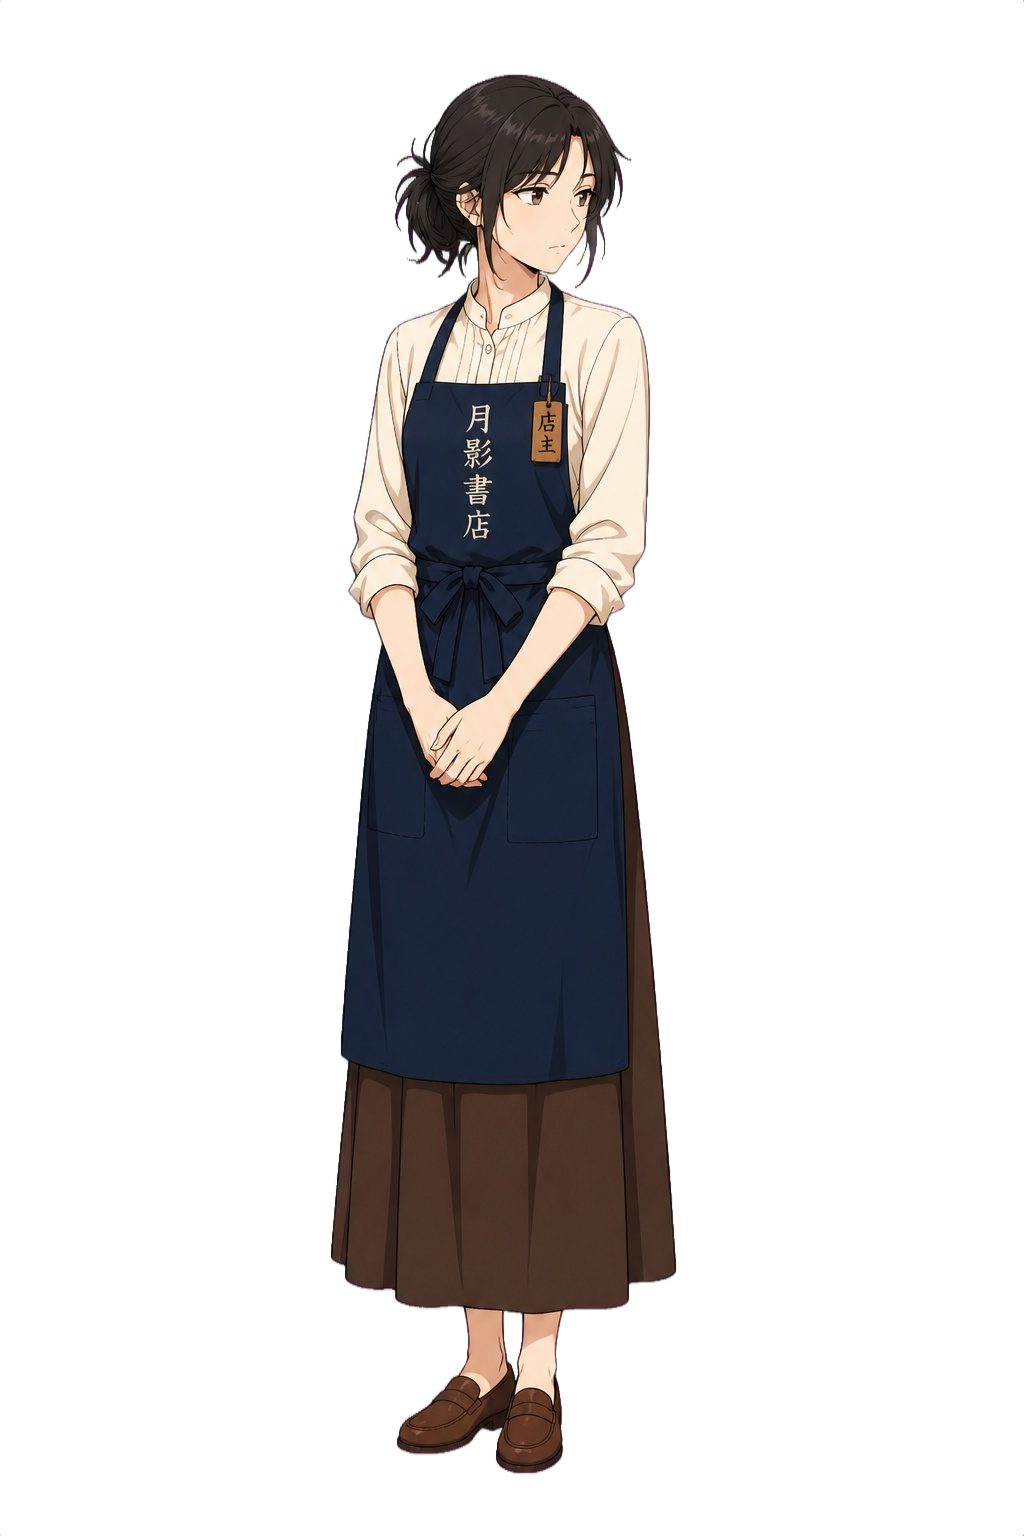
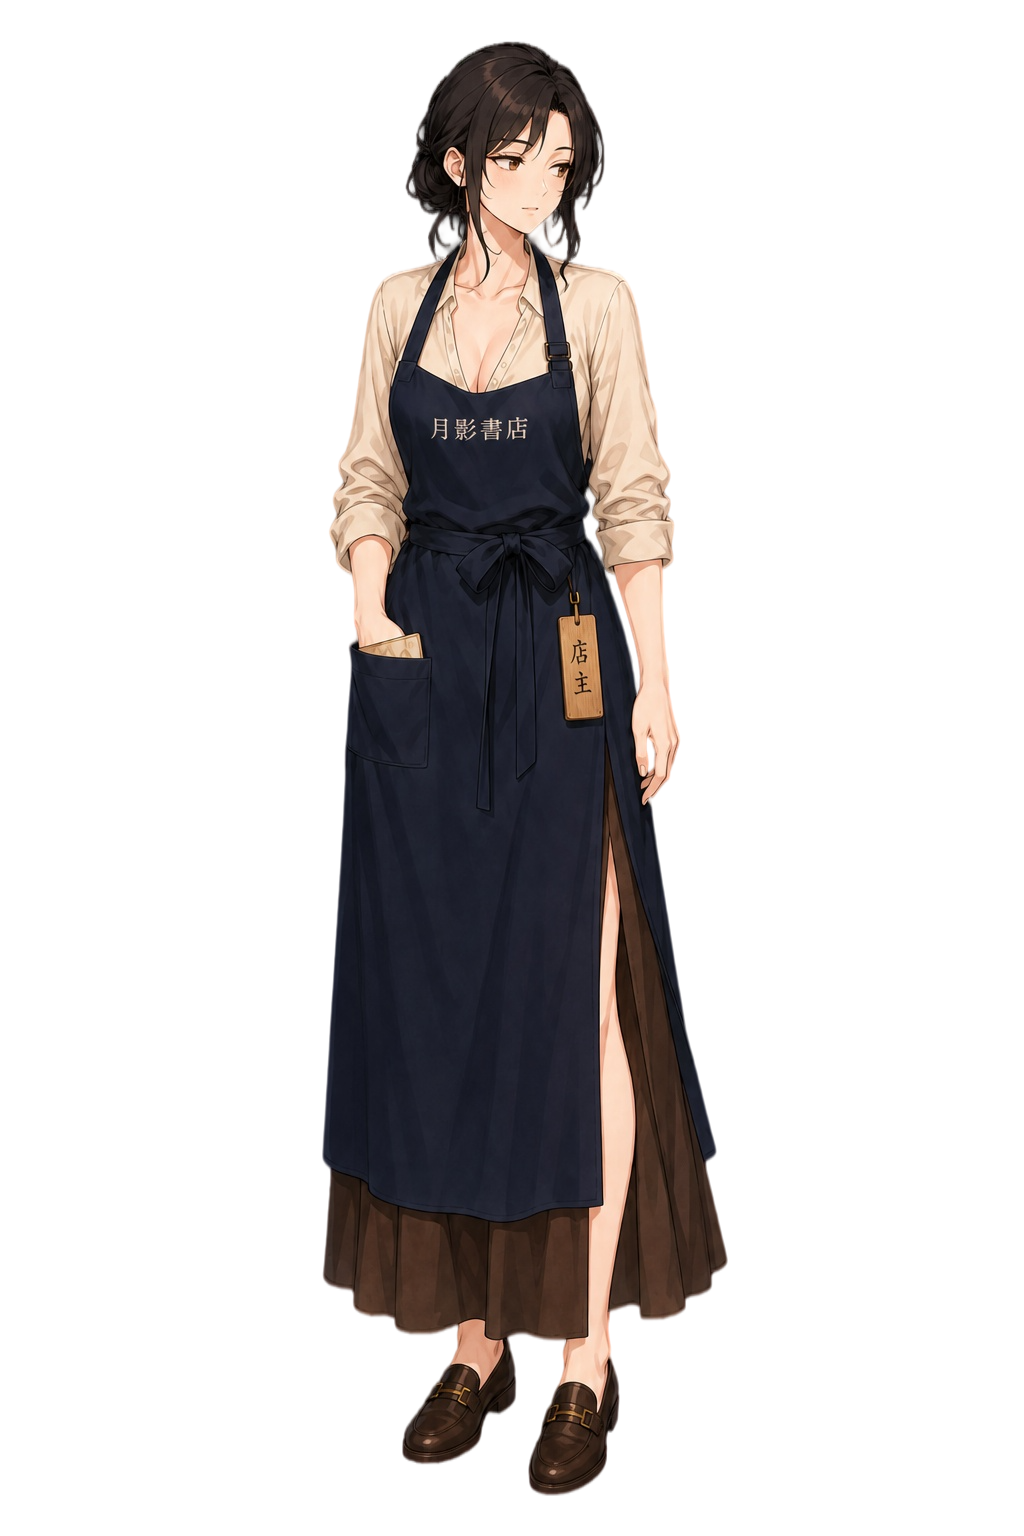
fix(assets): 对齐 avert/smile/soft/tense 画风
- 以 default 为锚点重出四张表情差分
- 黑底原稿收入 batch-04-stylefix

Changed region(s): [[0.3125, 0.0312, 0.7188, 1.0]]

diff --git a/src/data/assets.ts b/src/data/assets.ts
@@ -6,7 +6,7 @@
  *
  * ASSET_VER：换图后递增，强制浏览器绕过旧缓存
  */
-export const ASSET_VER = '20260802q'
+export const ASSET_VER = '20260802r'
 
 function asset(path: string): string {
   if (!path) return path

diff --git a/.cursor/skills/gal-character-sprite/SKILL.md b/.cursor/skills/gal-character-sprite/SKILL.md
@@ -81,8 +81,9 @@ description: >-
 | `public/images/char/green/batch-01-expressions/` | 表情 + book/crossed |
 | `public/images/char/green/batch-02-actions/` | 动作姿态 |
 | `public/images/char/green/batch-03-outfits/` | 换装 |
+| `public/images/char/green/batch-04-stylefix/` | 画风对齐重出 |
 
-详见 `public/images/char/green/README.md`。新绿幕请开 `batch-04-…`，不要堆回扁平 `green/`。
+详见 `public/images/char/green/README.md`。新绿幕请开下一 `batch-XX-…`，不要堆回扁平 `green/`。
 
 ## Prompt recipe（生成时遵守）
 

diff --git a/public/images/char/green/README.md b/public/images/char/green/README.md
@@ -8,6 +8,7 @@
 | `batch-01-expressions/` | 表情 + 抱书/抱臂 | 最早一批店服表情差分 |
 | `batch-02-actions/` | 托腮、端杯、写备忘等动作 | 设计稿动作行 |
 | `batch-03-outfits/` | 围裙性感版 / 开衫 / 私服 / 卸围裙 | 设计稿 B 换装 |
+| `batch-04-stylefix/` | avert/smile/soft/tense 画风对齐重出 | 黑底原稿 |
 
 ## 流程
 
